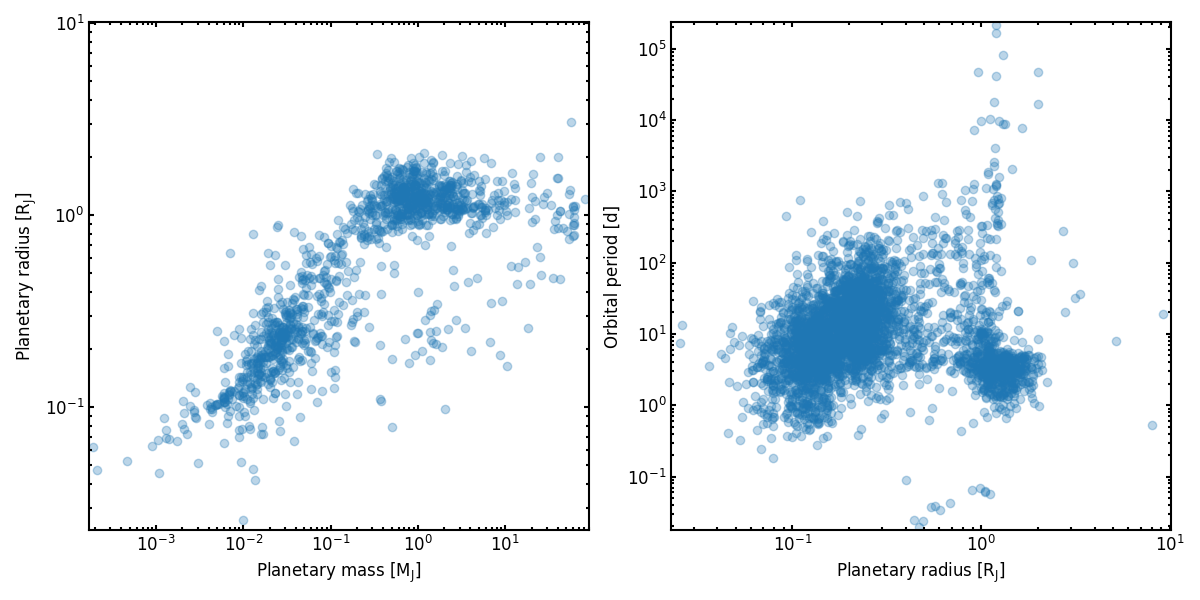
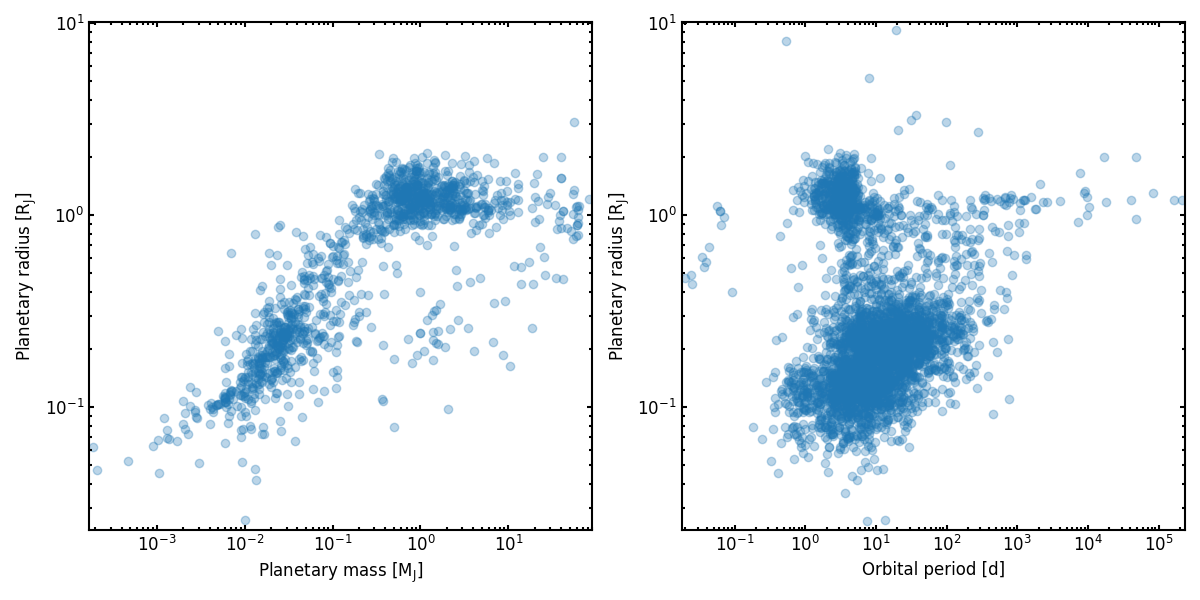
Structure

diff --git a/modules/plotting.py b/modules/plotting.py
@@ -48,15 +48,15 @@ def plot_current_relations(exoplanet_data: pd.DataFrame) -> None:
         ylabel="Planetary radius [R$_\\mathrm{J}$]"
     )
     ax_rp.set(
-        xlim=(rad_min * 0.9, rad_max * 1.1), xscale="log",
-        xlabel="Planetary radius [R$_\\mathrm{J}$]",
-        ylim=(per_min * 0.9, per_max * 1.1), yscale="log",
-        ylabel="Orbital period [d]"
+        ylim=(rad_min * 0.9, rad_max * 1.1), xscale="log",
+        ylabel="Planetary radius [R$_\\mathrm{J}$]",
+        xlim=(per_min * 0.9, per_max * 1.1), yscale="log",
+        xlabel="Orbital period [d]"
     )
 
     # Plot parameters
     ax_mr.scatter(exoplanet_data.mass, exoplanet_data.radius, alpha=0.3)
-    ax_rp.scatter(exoplanet_data.radius, exoplanet_data.period, alpha=0.3)
+    ax_rp.scatter(exoplanet_data.period, exoplanet_data.radius, alpha=0.3)
     plt.tight_layout()
 
     plt.savefig(f"{save_dir}/exoplanet_parameters.png")
@@ -64,8 +64,10 @@ def plot_current_relations(exoplanet_data: pd.DataFrame) -> None:
     return None
 
 
-def plot_mass_radius(exoplanet_data: pd.DataFrame,
-                     current_year: int) -> None:
+def plot_mass_radius(
+        exoplanet_data: pd.DataFrame,
+        current_year: int
+) -> None:
     """
     Generate mass-radius plot for all exoplanets discovered until
     'current_year'
@@ -103,8 +105,10 @@ def plot_mass_radius(exoplanet_data: pd.DataFrame,
     return None
 
 
-def plot_radius_period(exoplanet_data: pd.DataFrame,
-                       current_year: int) -> None:
+def plot_radius_period(
+        exoplanet_data: pd.DataFrame,
+        current_year: int
+) -> None:
     """
     Generate mass-radius plot for all exoplanets discovered until
     'current_year'
@@ -117,10 +121,10 @@ def plot_radius_period(exoplanet_data: pd.DataFrame,
     # Instantiate plot
     fig, ax = plt.subplots()
     ax.set(
-        xlim=(rad_min * 0.9, rad_max * 1.1), xscale="log",
-        xlabel="Planetary radius [R$_\\mathrm{J}$]",
-        ylim=(per_min * 0.9, per_max * 1.1), yscale="log",
-        ylabel="Orbital period [d]",
+        ylim=(rad_min * 0.9, rad_max * 1.1), yscale="log",
+        ylabel="Planetary radius [R$_\\mathrm{J}$]",
+        xlim=(per_min * 0.9, per_max * 1.1), xscale="log",
+        xlabel="Orbital period [d]",
         title=f"{current_year}"
     )
 
@@ -131,7 +135,7 @@ def plot_radius_period(exoplanet_data: pd.DataFrame,
     ]
 
     # Plot Mass-Radius data with opacity
-    ax.scatter(temp_data.radius, temp_data.period, alpha=0.3)
+    ax.scatter(temp_data.period, temp_data.radius, alpha=0.3)
     plt.tight_layout()
 
     # Save as individual frame

diff --git a/exovisual_animation.py b/exovisual_animation.py
@@ -1,10 +1,3 @@
-"""
-PSEUDOCODE
-Read in data file
-    - Could be from exoplanet.eu or NASA ExoArch
-Create a standardised data frame
-
-"""
 import modules.data_table as dt
 import modules.plotting as pt
 
@@ -12,15 +5,17 @@ import modules.plotting as pt
 def main():
     # Read in the data for plotting
     data_table = dt.read_exoplanet_eu("data/exoplanet.eu_catalog.csv")
-
+    
     # Plot all designated relations
     pt.plot_wrap(data_table)
 
     # Wrap individual frames into gifs
-    pt.create_looped_gif("plots/radius_period_frames", "radius_period",
-                         frame_dur=2e2)
-    pt.create_looped_gif("plots/mass_radius_frames", "mass_radius",
-                         frame_dur=2e2)
+    pt.create_looped_gif(
+        "plots/radius_period_frames", "radius_period", frame_dur=2e2
+    )
+    pt.create_looped_gif(
+        "plots/mass_radius_frames", "mass_radius", frame_dur=2e2
+    )
 
 
 if __name__ == "__main__":

diff --git a/exovisual_systemsize.py b/exovisual_systemsize.py
@@ -11,7 +11,8 @@ import pyvo
 # GLOBALS
 CIRCLE_OFFSET = 0.5
 CENTER_SIZE = 5e4
-SYSTEM_NAME = "TOI-178"
+SYSTEM_NAME = "TRAPPIST-1"
+IMG_TYPE = "svg"
 
 
 def main():
@@ -35,7 +36,9 @@ def main():
     # Finish plot
     plt.tight_layout()
     plt.savefig(
-        f"plots/system_sizes/system_size_{SYSTEM_NAME.replace(' ','')}.svg")
+        f"plots/system_sizes/system_size_{SYSTEM_NAME.replace(' ','')}."
+        f"{IMG_TYPE}", dpi=600
+    )
 
 
 def nasa_epa_query(system_name: str) -> pd.DataFrame:

diff --git a/README.md b/README.md
@@ -4,9 +4,22 @@ animations and loops). For now, the data set that is read in here comes
 from the [Extrasolar Planets Encyclopedia](http://exoplanet.eu/).
 
 <p align="center">
-      <img src="plots/animated/mass_radius.gif" align="left" width="49%">
-      <img src="plots/animated/radius_period.gif" align="right" width="49%">
+      <img src="plots/animated/mass_radius.gif" align="left" width="49.9%">
+      <img src="plots/animated/radius_period.gif" align="right" width="49.9%">
 </p>
+
 
 The current state of parameters looks like this:
 <img src="plots/exoplanet_parameters.png">
+
+## System Size Visualisation
+
+Because I like to explore nice ways of visualising data sets, I have also 
+explored the comparison of host and planet sizes. In these images, the host 
+star disk size is always scaled to unity, while the planet sizes from the 
+[NASA EPA](https://exoplanetarchive.ipac.caltech.edu/) are in units of
+Earth-radii, but scaled to the size of the stellar disk.
+
+<img src="plots/system_sizes/example/system_size_Sun.svg"/>
+<img src="plots/system_sizes/example/system_size_TOI-178.svg"/>
+<img src="plots/system_sizes/example/system_size_TRAPPIST-1.svg"/>
